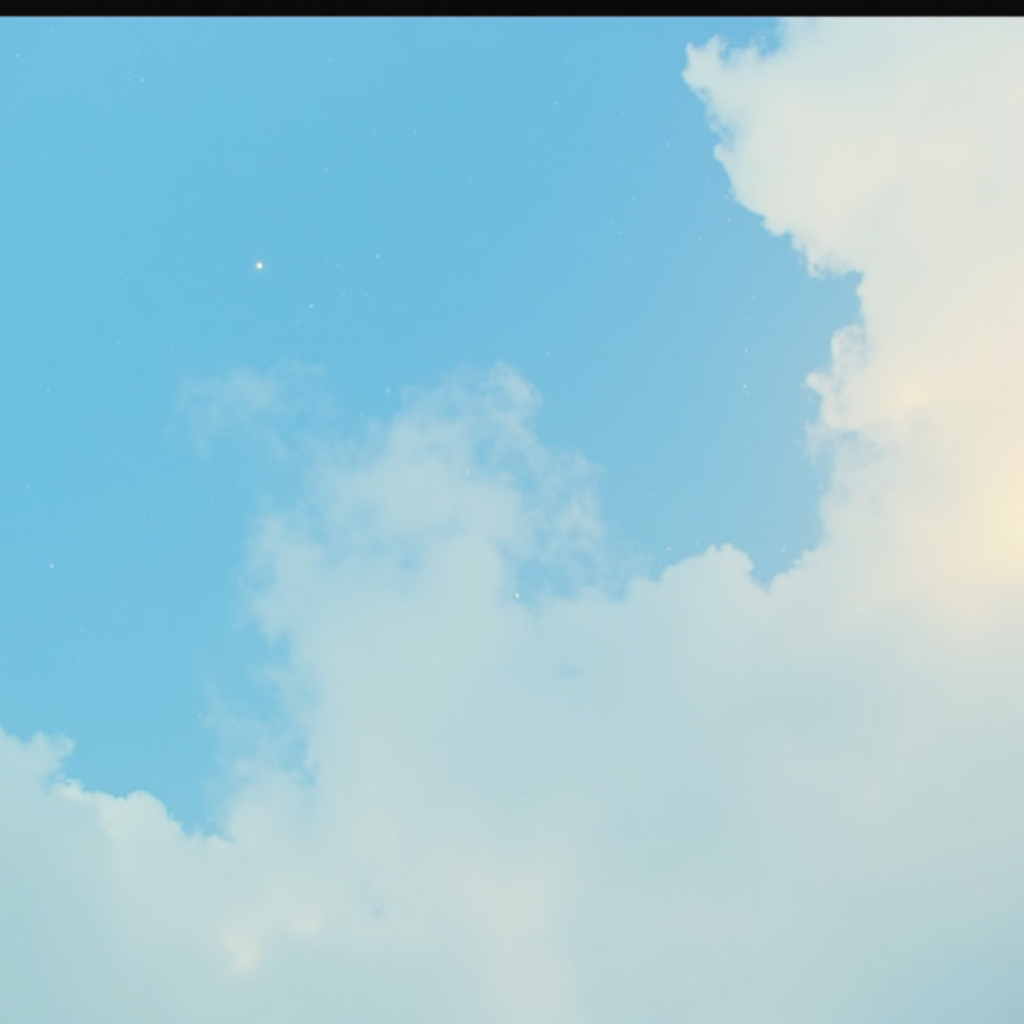
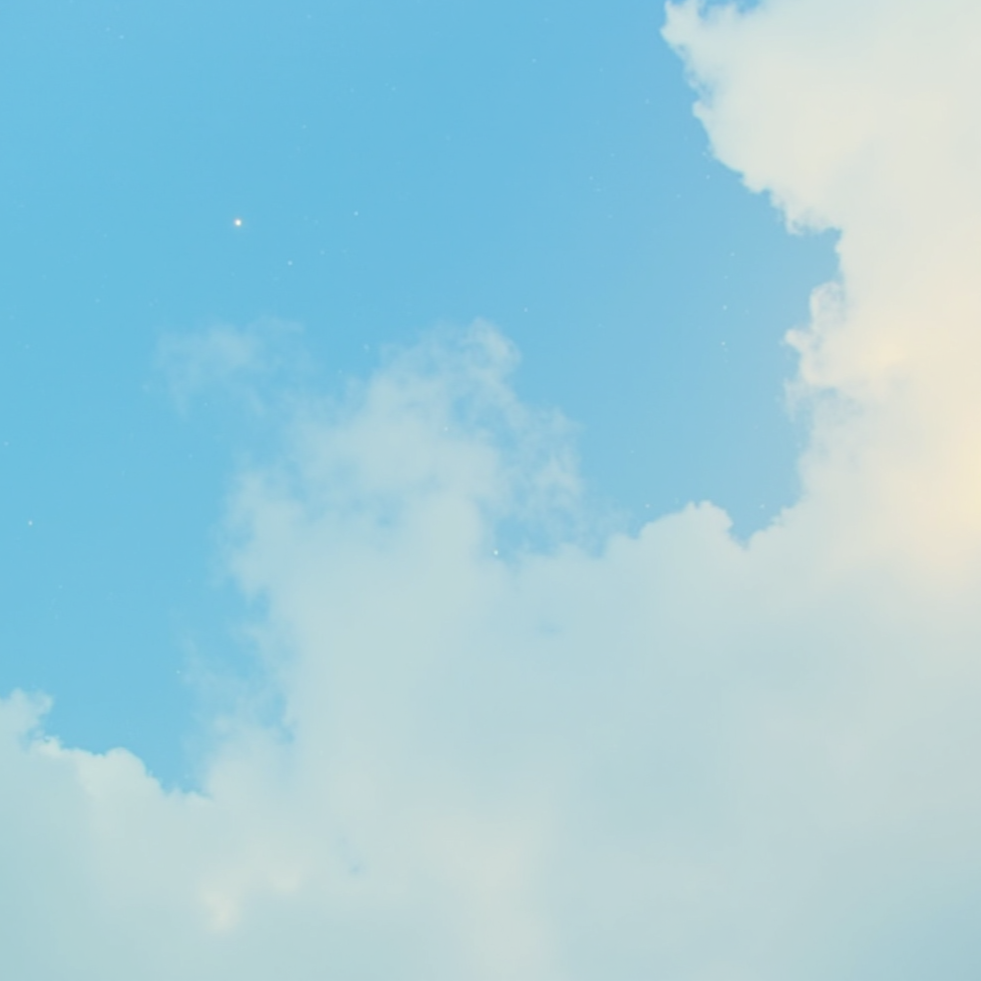
Change nav and finish home page

diff --git a/styles/styles.css b/styles/styles.css
@@ -1,4 +1,7 @@
 @media (max-width: 1300px) {
+    .main .overview {
+        width: 95% !important;
+    }
     .mid-selections {
         display: none !important; /* Force hide mid and left sections */
     }
@@ -6,6 +9,9 @@
         display: block !important;
         color: #F0F0F0;
         cursor: pointer;
+    }
+    .main .mid-part {
+        width: 90% !important;
     }
 }
 
@@ -29,12 +35,17 @@ body {
     display: flex;
     flex-direction: row;
     height: 70px;
-    width: 90%;
+    width: 75%;
     align-items: center;
     justify-content: space-between;
     background-color: #0A0707;
     border-radius: 15px;
-    padding: 0 20px; 
+    padding: 0 20px;
+    transition: opacity 0.3s ease-in, box-shadow 0.3s ease-out; /* Specify properties */
+    box-shadow: 0 0 10px rgba(255, 255, 255, 0.1);
+}
+.nav:hover {
+    box-shadow: 0 0 10px rgba(255, 255, 255, 0.4);
 }
 
 .nav .menu {
@@ -42,15 +53,26 @@ body {
     align-items: center;
     padding-left: 10px;
 }
-.nav .menu .text-wrapper {
-    padding-left: 5px;
-    color: #F0F0F0;
-    font-size: 25px;
-    text-decoration: none;
+
+.clickable-wrapper {
+    display: flex; /* Ensure the image and text are aligned horizontally */
+    align-items: center;
+    text-decoration: none; /* Remove underline from the link */
+    color: #F0F0F0; /* Inherit the color from the parent */
+    transition: 0.3s ease-in, 0.3s ease-out;
 }
+.clickable-wrapper:hover {
+    color: plum; /* Inherit the color from the parent */
+}
+
+.clickable-wrapper .text-wrapper {
+    padding-left: 5px;
+    font-size: 24px;
+}
+
 #earthling-icon {
-    width: 48px;
-    height: 48px;
+    width: 45px;
+    height: 45px;
 }
 
 .nav .mid-selections {
@@ -69,7 +91,8 @@ body {
 .nav .mid-selections .careers,
 .nav .mid-selections .pricing {
     text-decoration: none;
-    color: #F0F0F0;
+    color: #888888;
+    transition: 0.3s ease-in, 0.3s ease-out; /* Specify properties */
 }
 .nav .mid-selections .about-us:hover,
 .nav .mid-selections .features:hover,
@@ -77,7 +100,7 @@ body {
 .nav .mid-selections .careers:hover,
 .nav .mid-selections .pricing:hover {
     text-decoration: none;
-    color: #888888;
+    color: #F0F0F0;
 }
 
 .nav .hidden-menu {
@@ -94,6 +117,7 @@ body {
     color: #F0F0F0;
     font-size: 18px;
     cursor: pointer;
+    transition: 0.3s ease-in, 0.3s ease-out;
 }
 .left-selections .signin-button:hover {
     color: plum;
@@ -105,6 +129,7 @@ body {
     padding: 7px;
     border-radius: 10px;
     color: #0A0707;
+    transition: 0.3s ease-in, 0.3s ease-out;
 }
 .download-button:hover {
     background-color: orange;
@@ -114,37 +139,51 @@ body {
 /* MAIN */
 .main {
     margin-top: 50px;
-    width: 95%;
+    width: 85%;
     align-items: center;
     justify-content: center;
 
 }
 
 .main .top-part {
-    position: relative; /* Establish a positioning context for absolute children */
-}
-
-.main .top-part .top-image-wrapper {
-    width: 100%;
-    aspect-ratio: 2 / 1;
-    position: relative; /* Ensure the wrapper is positioned relative */
+    position: relative;
+    display: flex; /* Make .top-part a flex container */
+    justify-content: center; /* Center content horizontally */
+    align-items: center; /* Center content vertically */
+    flex-direction: column; /* Stack items vertically */
+    height: 100%; /* Ensure the container has a height to center vertically */
 }
 #top-image {
     width: 100%;
     height: auto;
-    aspect-ratio: 2 / 1;
-    object-fit: cover;
     border-radius: 15px;
 }
 .main .top-part .product-purpose {
     color: #F0F0F0;
     font-size: 24px;
-    margin-bottom: 300px;
+    text-align: center;
+    margin-bottom: 120px;
 }
 
 
 .main .overview {
-    
+    display: flex;
+    flex-direction: column;
+    align-items: center;
+    justify-content: center;
+    width: 70%; /* Default width */
+    margin: 0 auto;
+}
+.main .overview .overview-images{
+    width: 100%;
+    height: auto;
+}
+
+.main .overview .image-title {
+    padding-top: 70px;
+    padding-bottom: 40px;
+    text-align: center;
+    font-size: 24px;
 }
 
 .main .mid-part {
@@ -152,7 +191,7 @@ body {
     flex-direction: column;
     align-items: center;
     justify-content: center;
-    width: 80%; /* Define a width for centering */
+    width: 70%; /* Define a width for centering */
     margin: 0 auto; /* Center horizontally */
 }
 
@@ -181,7 +220,6 @@ body {
     width: 100%; /* Ensure images fill their containers */
     height: auto; /* Maintain aspect ratio */
     border-radius: 10px; /* Optional: Add rounded corners */
-    border: 2px solid #F0F0F0;
 }
 
 .image-label {
@@ -200,11 +238,12 @@ body {
 }
 
 .see-more {
-    margin: 100px auto; /* Center horizontally and add vertical spacing */
+    margin: 100px auto 150px auto; /* Center horizontally and add vertical spacing */
     text-align: center; /* Center the button text */
     font-size: 24px; /* Adjust font size as needed */
     color: #F0F0F0; /* Set text color */
     cursor: pointer;
+    transition: 0.3s ease-in, 0.3s ease-out;
 }
 .see-more:hover {
     color: lightblue; /* Set text color */

diff --git a/project1/index.html b/project1/index.html
@@ -10,8 +10,10 @@
 <body>
     <nav class="nav">
         <div class="menu">
-            <img id="earthling-icon" src="../images/earthling icon.png" alt="Earthling Icon">
-            <a href="index.html" class="text-wrapper">EARTHLING</a>
+            <a href="index.html" class="clickable-wrapper">
+                <img id="earthling-icon" src="../images/earthling icon.png" alt="Earthling Icon">
+                <span class="text-wrapper">EARTHLING</span>
+            </a>
         </div>
         <div class="mid-selections">
             <a href="about.html" class="about-us">ABOUT US</a>
@@ -30,27 +32,26 @@
     </nav>
     <main class="main">
         <div class="top-part">
-            <div class="top-image-wrapper">
-                <img id="top-image" src="../images/topportion.png" alt="sky image">
-            </div>
+            <img id="top-image" src="../images/topportion.png" alt="sky image">
             <div class="product-purpose">
                 <h1>The AI Tool To Expand Your Creativity</h1>
                 <p>Design to improve you productivity</p>
             </div>
         </div>
         <div class="overview">
-            <div class="first-functiton">
-            
+            <div>
+                <p class="image-title">This is a partner who always stands by your side on creative projects, from initial brainstorming to final editing.</p>
+                <img class="overview-images" src="../images/storyprompt.png" alt="Story Prompt">
             </div>
-            <div class="second-functiton">
-
+            <div>
+                <p class="image-title">It is a tutor who helps you turn your own ideas into working code.</p>
+                <img class="overview-images" src="../images/codeprompt.png" alt="Code Prompt">
             </div>
-            <div class="third-functiton">
-
+            <div>
+                <p class="image-title">Whether you have a simple idea or a detailed description, it can create an image to match your needs.</p>
+                <img class="overview-images" src="../images/imageprompt.png" alt="Image Prompt">
             </div>
-            <div class="fourth-functiton">
-
-            </div>
+            <div class="see-more">Explore more features of Earthling AI</div>
         </div>
         <div class="mid-part">
             <div class="research">
@@ -88,6 +89,6 @@
             <a class="email" href="[email redacted]">[email redacted]</a>
         </div>
         <div class="copyright">Copyright © 2025 Earthling. All rights reserved.</div>
-    </footer>"
+    </footer>
 </body>
 </html>